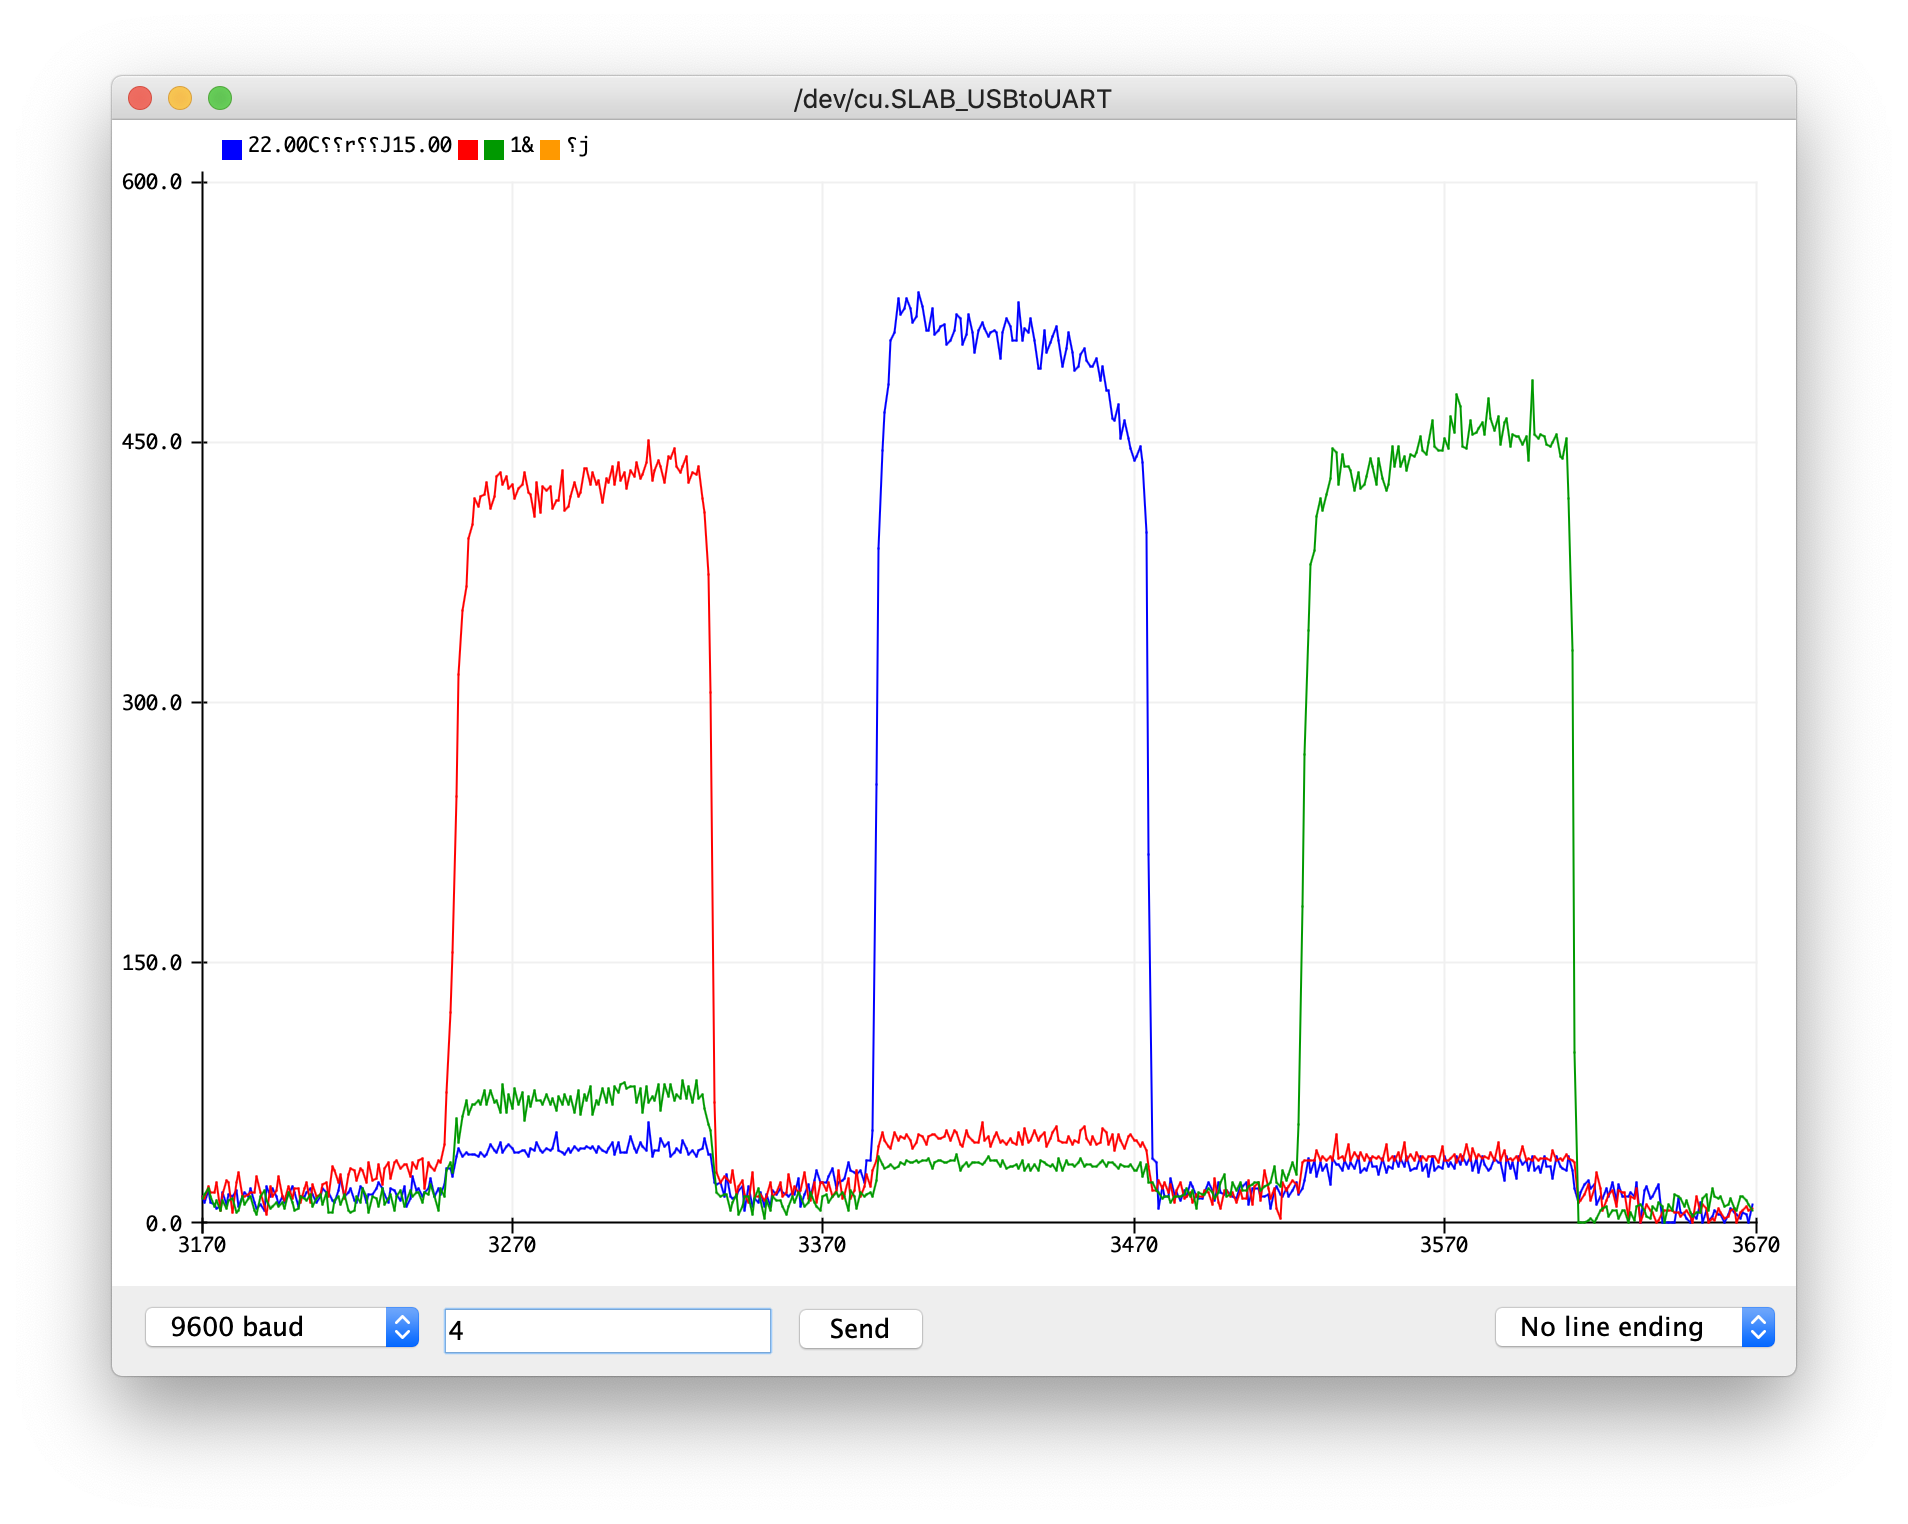
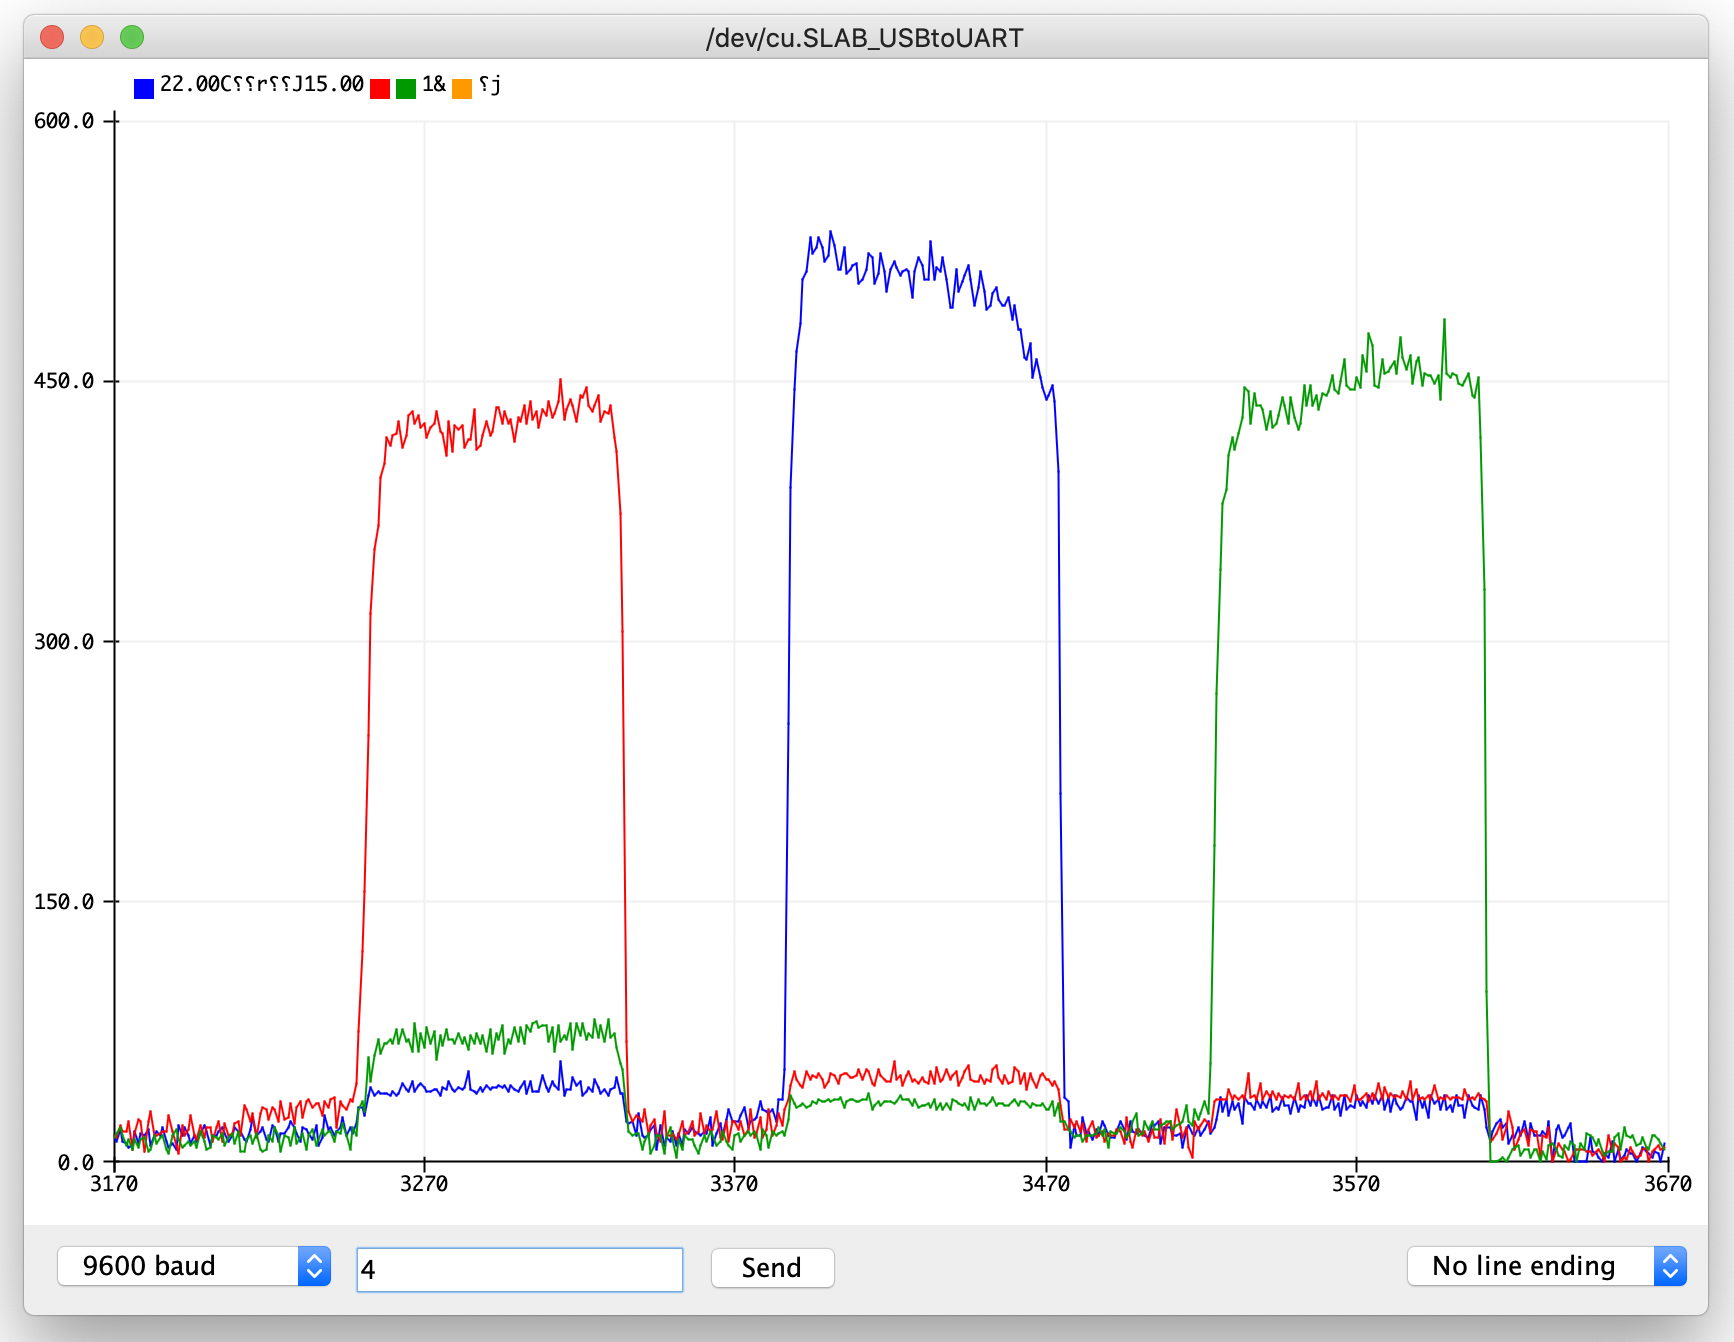
updated lab2

diff --git a/classes/2021-fall-6810/lab2-sensing-touch-button.html b/classes/2021-fall-6810/lab2-sensing-touch-button.html
@@ -104,25 +104,21 @@ Let's build the circuit from the schematic above:<br><br>
 
 Next, we will write a program that receives the touch sensor signal and plots them on our computer. To process the sensor signals, we will use the <i><a href="https://playground.arduino.cc/Main/CapacitiveSensor/">CapacitiveSensor library</a></i>.<br><br>
 
-<b>Install Library via Arduino Library Manager:</b> To install the library, open Arduino and go to <b>Sketch -> Include Library -> Manage Libraries</b> and search for the <b>CapacitiveSensor</b> library and install it.<br><br>
+<b>Install Library via Arduino Library Manager:</b> To install the library, open Arduino and go to 'Sketch -> Include Library -> Manage Libraries' and search for the 'CapacitiveSensor' library and install it.<br><br>
 
 <img src="images/lab2/capacitivesensorlibrary.png" width="650px"><br><br>
 
-<b>Run Sample Code:</b> Download this starter code <a href="images/touch-button.zip">here</a> and see if you can compile it. It the compiling completes without error messages, then you are all set to move on to the next section on sensing touch signals. However, if the installed library does not work and returns an error message like "'XXX' does not name a type" upon compiling, please try the alternative install below.<br><br>
+<b>Run Sample Code:</b> Download <a href="images/touch-button.zip">this starter code here</a> and see if you can compile it. It the compiling completes without error messages, then you are all set to move on to the next section on sensing touch signals. However, if the installed library does not work and returns an error message like "'XXX' does not name a type" upon compiling, please try the alternative install below.<br><br>
 
-<b>Install Library directly from github:</b> First, remove the previously installed library. You can delete it on Mac under <span style="color:red">'Macintosh HD/Users/your-username/Documents/Arduino/libraries'</span> and on windows this is under <span style="color:red">'My Documents\Arduino\libraries\</span>'. Once the library is deleted, <a href="https://github.com/PaulStoffregen/CapacitiveSensor">go to the library's GitHub repository</a> and download it as a .zip file. Re-install the library via the .zip file. The <a href="https://www.arduino.cc/en/guide/libraries#toc4"> <span style="color:red">instructions to do so can be found here.</span></a><br><br>
+<b>Alternative Install from github:</b> First, remove the previously installed library. You can delete it on Mac under <span style="color:red">'Macintosh HD/Users/your-username/Documents/Arduino/libraries'</span> and on windows this is under <span style="color:red">'My Documents\Arduino\libraries\</span>'. Once the library is deleted, <a href="https://github.com/PaulStoffregen/CapacitiveSensor">go to the library's GitHub repository</a> and download it as a .zip file. Re-install the library via the .zip file. The <a href="https://www.arduino.cc/en/guide/libraries#toc4"> <span style="color:red">instructions to do so can be found here.</span></a><br><br>
 
 
-<h3 id="INSTALL">(4) Sensing the Touch Signals</h3>
+<h3 id="INSTALL">(5) Test if Touch Sensing Circuit Works</h3>
 
-<h4>Write Code to Read Touch Signal</h4><br>
+By now, you should have already downloaded the <a href="images/touch-button.zip">starter code</a>, opened it in your Arduino IDE and upload it to your microcontroller. The sample code can read the signal from one touch button and write it to Arduino's serial monitor.<br> <br> 
 
-The basic program below can read one touch sensor and send it to Arduino's serial monitor.<br>
-You can download this starter code <a href="images/touch-button.zip">here</a> or alternative you can copy paste from this website.<br>
-
-<code><pre>
-
-/*******************************************************************************
+<pre>
+<code>/*******************************************************************************
 * Capacitive Sensing for Touch and Proximity
 *
 * Prints the values of a capacitive sensor.
@@ -154,51 +150,25 @@ void loop()
 
 
   delay(10);
-}
-</pre>
-</code>
+}</code></pre>
 <br>
 
-Open the code in your Arduino IDE and upload it to your microcontroller.<br>
-Open the serial monitor, you should see a bunch of numbers fly by.<br>
-If you touch your touch sensor, the values should change significantly.<br> 
-Remember to not touch the silver side directly but to interact on the side of the visual design, i.e. the side that has no silver. <br><br>
+<b>Use Serial Monitor to Observe Signal Changes During Touch:</b> If you open the serial monitor, you should see a bunch of numbers fly by. If you touch your touch sensor, the values should change significantly. Remember: do not touch the silver directly but interact on the visual design, i.e. the side that has no silver. If your numbers don't change, there may be something wrong with your circuit. Please double check your circuit and then ask a TA for help.<br><br>
 
 <img src="images/lab2/lab1-touching-plotting.png" width="680px"><br><br>
 
-<h4>Extend Circuit to all Three Touch Sensors</h4><br>
+<h3 id="INSTALL">(6) Extend Circuit and Code to 3x Touch Sensors</h3>
 
-Since we have three notes that serve as touch buttons, we need to both extend our circuit as well as our code to read those touch signals as well.<br><br>
+<b>Extend Circuit:</b> Since we have three notes that serve as touch buttons, we need to extend our circuit to read those touch signals as well. Use a breadboard to make 3 touch button circuits, each connecting to one of the notes. You can use the <b>same sender pin</b> for all three touch buttons. Only the receiver pin has to vary, i.e. you need one receiver pin for each touch signal you want to read. Also each touch sensor needs its own 100k Ohm resistor. The pin numbers are up to you.<br><br>
 
-Use a breadboard to make 3 touch button circuits, each connecting to one of the notes.<br>
-Note that you can use the <b>same sender pin</b> for all three touch buttons.<br>
-Only the receiver pin has to vary, i.e. you need one receiver pin for each touch signal you want to read.<br>
-Also each touch sensor needs its own 100k Ohm resistor.<br>
-Choose any suitable receiver pin number you like.<br><br>
+<b>Extend Code:</b> Next, extend your code to read and print all 3 of your touch sensors. When you print your touch values, please use Serial.print() not Serial.println(). Each sensed value should be separated by a tabulator symbol Serial.print(","); and the line should finish with a new line Serial.print("\n").<br><br>
 
-<!-- Connect pin 2 (sender) with three 100k Ohm resistor to the receiver pins 4 (already done), 17, and 18.<br>
-Then connect pin 4 (already done), 17, and 18 with a wire and crocodile clamp to the touch sensors.<br><br>
- -->
-<h4>Extend Code to all Three Touch Sensors</h4><br>
+<b>Test If Circuit and Sensing Works:</b> Use the Serial plotter to visualize the received signals by clicking on 'Tools->Serial Plotter'. Because of the formatting we used (comma seperated using Serial.print()), we can see all three variables plotted at the same time. Similar to before, touch the sensors and see how the signal changes. If you see no changes, either your circuit or your code have a bug. Below you see how we touch the button 1 first, then button 2 and finally button 3. You can increase the number of times the signal is sampled by increasing the value of 'samples_touch' in your code.<br><br>
 
-Next, extend your code to read and print all 3 of your touch sensors.<br>
-When you print your touch values, please <b>use Serial.print()</b> not Serial.println().<br>
-Each value should be seperated by a tabulator symbol Serial.print(","); and the line should finish with a new line Serial.print("\n").<br><br>
+<img src="images/lab2/lab1-plotting-signals_new.png" width="480px"><br><br>
 
-<h4>Plotting Signals on the Serial Plotter</h4><br>
+<h3 id="INSTALL">(7) Extend Circuit and Code to Other Touch Sensors</h3>
 
-Next, we will use the Serial plotter to visualize the received signals by clicking on <b>Tools->Serial Plotter</b>.<br>
-Because of the formatting we used (comma seperated using Serial.print()), we can see all three variables plotted at the same time.<br><br>
-
-Try touching the sensors and see how the signal changes when you touch the sensors.<br>
-Below you see how we touch the button 1 first, then button 2 and finally button 3.<br><br>
-
-<img src="images/lab2/lab1-plotting-signals_new.png" width="680px"><br><br>
-
-Also change the values of <b>samples_touch</b> in your code and see how the value range changes.<br>
-Below is one example with higher number for samples_touch.<br>
-
-<img src="images/lab2/lab1-plotting-signals2_new.png" width="680px"><br><br>
 <!-- <img src="images/lab1-plotting-signals3.png" width="680px"><br><br> -->
 
 <h4>Thresholding Touch Signals: Touched or not Touched?</h4><br>
